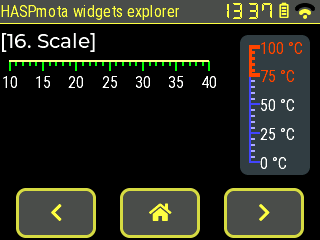
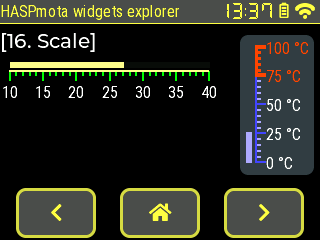
HASPmota update scale

Changed region(s): [[0.0, 0.2333, 0.6875, 0.4083], [0.75, 0.1458, 1.0, 0.7292], [0.9062, 0.0, 1.0, 0.0583]]

diff --git a/docs/HASPmota.md b/docs/HASPmota.md
@@ -380,8 +380,8 @@ Attribute name|LVGL equivalent|Details
 `pad_all`||Padding of the overall border, `0` by default
 `bg_grad_color10`||End color of the active part of the slider when gradient is enabled
 `bg_grad_dir10`||Gradient direction<br>`0`: none<br>`1`: Vertical (top to bottom) gradient<br>`2`: Horizontal (left to right) gradient
-`min`||(int) Minimum value
-`max`||(int) Maximum value
+`min`||(int) Minimum value, inherited from parent `scale` if `parentid` refers to a `scale`
+`max`||(int) Maximum value, inherited from parent `scale` if `parentid` refers to a `scale`
 `val`||(int) Current value
 
 ### `scale`, `scale_section`, `scale_line`
@@ -391,10 +391,12 @@ Example:
 ![HASPmota scale 1](_media/lvgl/HASPmota_16_scale.png)
 
 ```json
-{"id":11,"obj":"scale","x":10,"y":60,"w":200,"h":30,"min":10,"max":40,"total_tick_count":31,"major_tick_every":5,"label_show":true,"line_color":"#FFFF88","line_color10":"#00FF00","line_color30":"#00FF00","line_width":2,"line_width10":2,"line_width30":2,"length10":10,"length30":5}
+{"id":11,"obj":"scale","x":10,"y":60,"w":200,"h":30,"min":10,"max":40,"total_tick_count":31,"major_tick_every":5,"label_show":true,"line_color":"#FFFF88","line_color10":"#00FF00","line_color30":"#00FF00","line_width":2,"line_width10":2,"line_width30":2,"length10":10,"length30":5,"pad_top":10}
+  {"id":12,"obj":"bar","parentid":11,"y":-8,"w%":100,"h":6,"radius":0,"radius10":0,"bg_color":"#4F4F4F","bg_color10":"#FFFF88","val":27}
 
-{"id":12,"obj":"scale","x":240,"y":35,"w":70,"h":140,"min":0,"max":100,"mode":4,"total_tick_count":21,"major_tick_every":5,"label_show":true,"line_color":"#4444FF","line_color10":"#4444FF","line_color30":"#AAAAFF","line_width":2,"line_width10":2,"line_width30":2,"length10":10,"length30":5,"text_src":["0 °C", "25 °C", "50 °C", "75 °C", "100 °C", ""],"bg_color":"#607D8B","bg_opa":127,"pad_left":10,"radius":8,"pad_ver":12}
-  {"id":13,"obj":"scale_section","parentid":12,"min":75,"max":100,"line_color":"#FF4400","line_width":3,"line_color10":"#FF4400","line_width10":4,"text_color10":"#FF4400","line_color30":"#FF4400","line_width30":3}
+{"id":22,"obj":"scale","x":240,"y":35,"w":74,"h":140,"min":0,"max":100,"mode":4,"total_tick_count":21,"major_tick_every":5,"label_show":true,"line_color":"#4444FF","line_color10":"#4444FF","line_color30":"#AAAAFF","line_width":2,"line_width10":2,"line_width30":2,"length10":10,"length30":5,"text_src":["0 °C", "25 °C", "50 °C", "75 °C", "100 °C"],"bg_color":"#607D8B","bg_opa":127,"pad_left":16,"radius":8,"pad_ver":12}
+  {"id":23,"obj":"scale_section","parentid":22,"min":75,"max":100,"line_color":"#FF4400","line_width":3,"line_color10":"#FF4400","line_width10":4,"text_color10":"#FF4400","line_color30":"#FF4400","line_width30":3}
+  {"id":24,"obj":"bar","parentid":22,"x":-10,"h%":100,"w":6,"radius":0,"radius10":0,"bg_color":"#4F4F4F","bg_color10":"#AAAAFF","val":27}
 ```
 
 ![HASPmota scale 2](_media/lvgl/HASPmota_17_scale.png)
@@ -404,34 +406,34 @@ Example:
   {"id":22,"obj":"scale_line","parentid":21,"line_color":"#00FF00","line_width":4,"line_rounded":true,"needle_length":50,"val":22}
   {"id":23,"obj":"scale_line","parentid":21,"line_color":"#FF4400","line_width":6,"line_rounded":true,"needle_length":30,"val":33}
 
-{"id":31,"obj":"scale","x":180,"y":80,"w":80,"h":80,"min":0,"max":100,"mode":16,"bg_opa":0,"label_show":true,"total_tick_count":21,"major_tick_every":5,"text_src":["0 °C", "25 °C", "50 °C", "75 °C", "100 °C", ""],"arc_color":"#4444FF","line_color10":"#4444FF","line_color30":"#AAAAFF","text_color":"#AAAAFF","arc_width":2,"line_width10":2,"line_width30":2,"length10":10,"length30":5}
+{"id":31,"obj":"scale","x":180,"y":80,"w":80,"h":80,"min":0,"max":100,"mode":16,"bg_opa":0,"label_show":true,"total_tick_count":21,"major_tick_every":5,"text_src":["0 °C", "25 °C", "50 °C", "75 °C", "100 °C"],"arc_color":"#4444FF","line_color10":"#4444FF","line_color30":"#AAAAFF","text_color":"#AAAAFF","arc_width":2,"line_width10":2,"line_width30":2,"length10":10,"length30":5}
   {"id":32,"obj":"scale_section","parentid":31,"min":75,"max":100,"arc_color":"#FF4400","arc_width":3,"line_color10":"#FF4400","line_width10":4,"text_color10":"#FF4400","line_color30":"#FF4400","line_width30":3}
   {"id":33,"obj":"scale_line","parentid":31,"line_color":"#AAAAFF","line_width":10,"line_rounded":true,"needle_length":30,"val":37}
 ```
 
 Note: there is no current `val` on the scale object. It must be done with a second `bar` object for linear scale or with a `scale_meter` sub-object for circular scale.
 
-Attribute name|LVGL equivalent|Details
-:---|:---|:---
-`mode`||Set scale mode<br>`0`: `lv.SCALE_MODE_HORIZONTAL_TOP`<br>`1`: `lv.SCALE_MODE_HORIZONTAL_BOTTOM`<br>`2`: `lv.SCALE_MODE_VERTICAL_LEFT`<br>`4`: `lv.SCALE_MODE_VERTICAL_RIGHT`<br>`8`: `lv.SCALE_MODE_ROUND_INNER`<br>`16`: `lv.SCALE_MODE_ROUND_OUTER`
-`min`||(int) Minimum value
-`max`||(int) Maximum value
-`total_tick_count`||Set the number of total ticks
-`major_tick_every`||Set a major tick being every Nth ticks
-`line_width`||Set the line width of the scale line
-`arc_width`||Set the line width of the scale line (for circular scale)
-`line_width10`||Set the line width of the major ticks
-`line_width30`||Set the line width of the minor ticks
-`line_color`||Set the line color of the scale line
-`arc_color`||Set the line color of the scale line (for circular scale)
-`line_color10`||Set the line color of the major ticks
-`line_color30`||Set the line color of the minor ticks
-`length10`||Set the length of the major ticks
-`length30`||Set the length of the minor ticks
-`label_show`||(bool) Show or hide the labels
-`options`|`options`|(array of string) Labels for major ticks
-`angle_range`||Set the angular range of a circular scale (in degrees 0..360)
-`rotation`||Set the angular offset from the 3 o'clock position (clock-wise, in degrees 0..360)
+`scale` attribute|Details
+:---|:---
+`mode`|Set scale mode<br>`0`: `lv.SCALE_MODE_HORIZONTAL_TOP`<br>`1`: `lv.SCALE_MODE_HORIZONTAL_BOTTOM`<br>`2`: `lv.SCALE_MODE_VERTICAL_LEFT`<br>`4`: `lv.SCALE_MODE_VERTICAL_RIGHT`<br>`8`: `lv.SCALE_MODE_ROUND_INNER`<br>`16`: `lv.SCALE_MODE_ROUND_OUTER`
+`min`|(int) Minimum value
+`max`|(int) Maximum value
+`total_tick_count`|Set the number of total ticks
+`major_tick_every`|Set a major tick being every Nth ticks
+`line_width`|Set the line width of the scale line
+`arc_width`|Set the line width of the scale line (for circular scale)
+`line_width10`|Set the line width of the major ticks
+`line_width30`|Set the line width of the minor ticks
+`line_color`|Set the line color of the scale line
+`arc_color`|Set the line color of the scale line (for circular scale)
+`line_color10`|Set the line color of the major ticks
+`line_color30`|Set the line color of the minor ticks
+`length10`|Set the length of the major ticks
+`length30`|Set the length of the minor ticks
+`label_show`|(bool) Show or hide the labels
+`options`|(array of string) Labels for major ticks. It is not necessary to end with an empty string.
+`angle_range`|Set the angular range of a circular scale (in degrees 0..360)
+`rotation`|Set the angular offset from the 3 o'clock position (clock-wise, in degrees 0..360)
 
 You can define sub-scales to have a different rendering on the scale using a sub-object `scale_section`
 
@@ -439,21 +441,21 @@ You can define sub-scales to have a different rendering on the scale using a sub
   {"id":13,"obj":"scale_section","parentid":12,"min":75,"max":100,"line_color":"#FF4400","line_width":3,"line_color10":"#FF4400","line_width10":4,"text_color10":"#FF4400","line_color30":"#FF4400","line_width30":3}
 ```
 
-Attribute name|LVGL equivalent|Details
-:---|:---|:---
-`parentid`||Set to the `id` of the `scale` it belongs to
-`min`||(int) Minimum value of the sub-section
-`max`||(int) Maximum value of the sub-section
-`line_width`||Set the line width of the scale line
-`arc_width`||Set the line width of the scale line (for circular scale)
-`line_width10`||Set the line width of the major ticks
-`line_width30`||Set the line width of the minor ticks
-`line_color`||Set the line color of the scale line
-`arc_color`||Set the line color of the scale line (for circular scale)
-`line_color10`||Set the line color of the major ticks
-`line_color30`||Set the line color of the minor ticks
-`length10`||Set the length of the major ticks
-`length30`||Set the length of the minor ticks
+`scale_section` attribute|Details
+:---|:---
+`parentid`|Set to the `id` of the `scale` it belongs to
+`min`|(int) Minimum value of the sub-section
+`max`|(int) Maximum value of the sub-section
+`line_width`|Set the line width of the scale line
+`arc_width`|Set the line width of the scale line (for circular scale)
+`line_width10`|Set the line width of the major ticks
+`line_width30`|Set the line width of the minor ticks
+`line_color`|Set the line color of the scale line
+`arc_color`|Set the line color of the scale line (for circular scale)
+`line_color10`|Set the line color of the major ticks
+`line_color30`|Set the line color of the minor ticks
+`length10`|Set the length of the major ticks
+`length30`|Set the length of the minor ticks
 
 For circular scales, you can define zero or more line indicators with sub-objects `scale_line`
 
@@ -461,15 +463,16 @@ For circular scales, you can define zero or more line indicators with sub-object
   {"id":22,"obj":"scale_line","parentid":21,"line_color":"#00FF00","line_width":4,"line_rounded":true,"needle_length":50,"val":22}
 ```
 
-Attribute name|LVGL equivalent|Details
-:---|:---|:---
-`parentid`||Set to the `id` of the `scale` it belongs to
-`val`||(int) The value of the indicator line in the scale (between `min` and `max`)
-`line_width`||Set the line width of the scale line
-`line_color`||Set the line color of the scale line
-`line_rounded`||(bool) Rounds both ends of the line
-`needle_length`||Length of the line
+`scale_line` attribute|Details
+:---|:---
+`parentid`|Set to the `id` of the `scale` it belongs to
+`val`|(int) The value of the indicator line in the scale (between `min` and `max`)
+`line_width`|Set the line width of the scale line
+`line_color`|Set the line color of the scale line
+`line_rounded`|(bool) Rounds both ends of the line
+`needle_length`|Length of the line
 
+For linear scales, you can just use a `bar` sub-object. It inherits `min` and `max` values from the parent `scale` object.
 
 ### `arc`
 
